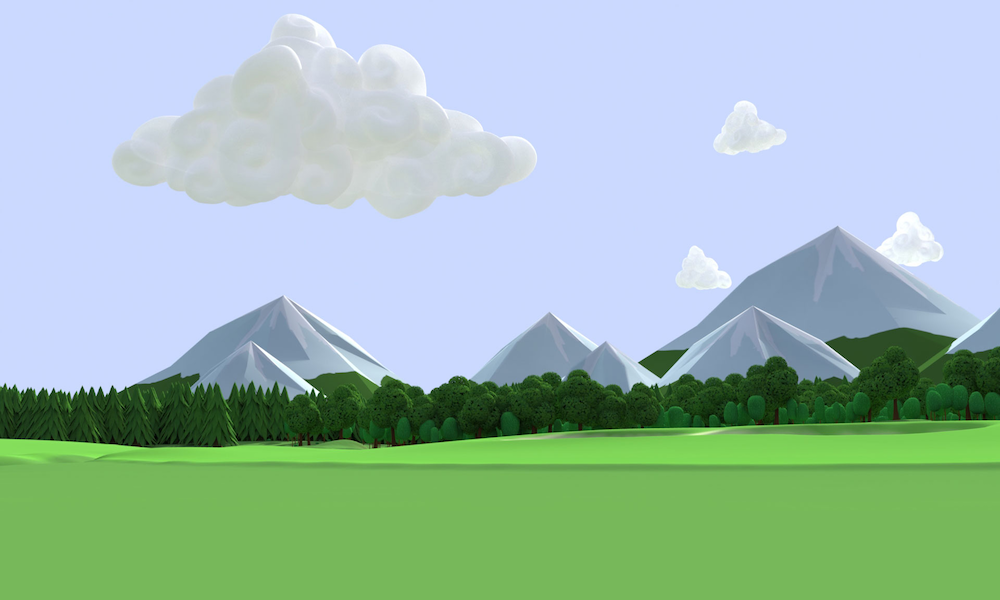
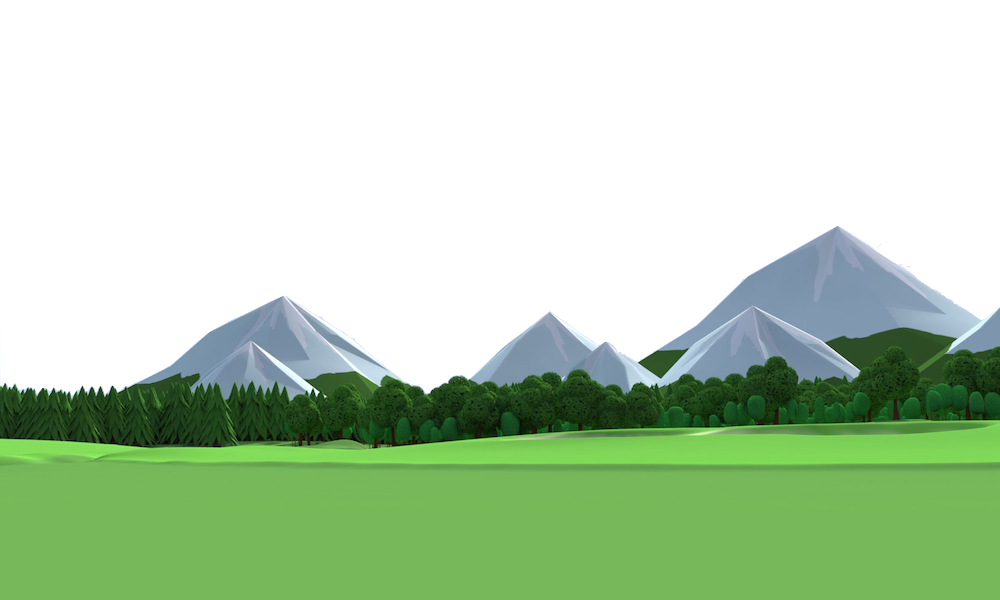
settings

diff --git a/tank_war.py b/tank_war.py
@@ -32,14 +32,14 @@ gameDisplay = pygame.display.set_mode((display_width, display_height))
 pygame.display.set_caption('TANK WAR')
 tankicon = pygame.image.load("tank_img.png")
 terrianimg = pygame.image.load("tankwar_terrian.png")
+cloud_1 = pygame.image.load("cloud_1.png")
+cloud_2 = pygame.image.load("cloud_2.png")
 pygame.display.set_icon(tankicon)
 clock = pygame.time.Clock()
 
 class Buttons:
 
-    font = pygame.font.SysFont(None, 30)
-
-    def __init__(self, x, y, w, h, ac_color, ic_color, text):
+    def __init__(self, x, y, w, h, ac_color, ic_color, text, size):
         self.x = x
         self.y = y
         self.w = w
@@ -48,10 +48,11 @@ class Buttons:
         self.ic_color = ic_color
         self.text = text
         self.rect = pygame.Rect(self.x, self.y, self.w, self.h)
+        self.font = pygame.font.SysFont(None, size)
 
     @property
     def text_objects(self):
-        bit_map = Buttons.font.render(self.text, True, BLACK)
+        bit_map = self.font.render(self.text, True, BLACK)
         return bit_map, bit_map.get_rect()
 
     def show_ac(self):
@@ -389,6 +390,14 @@ def button(obj):
             return True
     obj.write()
 
+def setton(obj):
+    obj.show_ic()
+    obj.write()
+    if obj.collide:
+        obj.show_ac()
+        obj.write()
+        return True
+
 def game_renew():
     Bullet.family = []
     Obstacle.rects = []
@@ -396,8 +405,8 @@ def game_renew():
     Tank.family = []
 
 def paused():
-    contin_b = Buttons(750, 450, 140, 70, BRIGHT_GREEN, GREEN, "CONTINUE")
-    restart_b = Buttons(150, 450, 140, 70, BRIGHT_GREEN, GREEN, "RESTART")
+    contin_b = Buttons(750, 450, 140, 70, BRIGHT_GREEN, GREEN, "CONTINUE", 30)
+    restart_b = Buttons(150, 450, 140, 70, BRIGHT_GREEN, GREEN, "RESTART", 30)
     title = Msg(display_width / 2, display_height / 3, "PAUSED", 80)
     title.show()
     while True:
@@ -415,12 +424,36 @@ def paused():
         pygame.display.update()
         clock.tick(30)
 
-def game_intro():
-    quit_b = Buttons(750, 450, 140, 70, LIGHT_ORANGE, DARK_ORANGE, "QUIT")
-    play_b = Buttons(150, 450, 140, 70, LIGHT_ORANGE, DARK_ORANGE, "PLAY")
-    title = Msg(display_width / 2, display_height / 3, "TANK WAR", 80)
-    gameDisplay.blit(terrianimg, (0, 0))
+def settings():
+    back_b = Buttons(750, 500, 140, 70, BRIGHT_GREEN, GREEN, "BACK", 30)
+    play_b = Buttons(150, 500, 140, 70, BRIGHT_GREEN, GREEN, "PLAY", 30)
+    title = Msg(display_width / 2, display_height / 6, "SETTINGS", 80)
+    gameDisplay.fill(LIGHT_BLUE)
     title.show()
+
+    set_family = []
+    texts = ("BARREL LEFT", "BARREL RIGHT", "TANK LEFT",
+             "TANK RIGHT", "POWER UP", "POWER DOWN", "FIRE")
+
+    with open("l_key.txt", "r") as file:
+        l_keys = file.read().split(",")
+    for each in l_keys:
+        ind = l_keys.index(each)
+        k_name = pygame.key.name(int(l_keys[ind]))
+        pos = ind + 1
+        if ind == 6:
+            button_x = 150
+        if (ind + 1) % 2 == 0:
+            pos = ind
+        if (ind + 1) % 2 == 0:
+            button_x = 300
+        else:
+            button_x = 100
+        set_family.append(Buttons(button_x,
+                          int(display_height / 14) * pos + 110, 150, 60,
+                          BRIGHT_GREEN, GREEN,
+                          texts[int(ind)] + ": " + k_name, 23))
+
     while True:
         for event in pygame.event.get():
             if event.type == pygame.QUIT:
@@ -428,6 +461,56 @@ def game_intro():
             if event.type == pygame.KEYDOWN:
                 if event.key == K_ESCAPE:
                     quitgame()
+        if button(back_b):
+            return None
+        if button(play_b):
+            return game_loop()
+
+        for each in set_family:
+            if setton(each):
+                for event in pygame.event.get():
+                    if event.type == pygame.KEYDOWN:
+                        if event.key == K_ESCAPE:
+                            quitgame()
+                        num = set_family.index(each)
+                        l_keys[num] = event.key
+                        each.text = texts[num] + ": " + pygame.key.name(int(l_keys[num]))
+        with open("l_key.txt", "w") as file:
+            file.write(','.join(map(str, l_keys)))
+        # print(str(clock.get_fps()))
+        pygame.display.update()
+        clock.tick(30)
+
+def game_intro():
+    quit_b = Buttons(750, 450, 140, 70, LIGHT_ORANGE, DARK_ORANGE, "QUIT", 30)
+    play_b = Buttons(150, 450, 140, 70, LIGHT_ORANGE, DARK_ORANGE, "PLAY", 30)
+    title = Msg(display_width / 2, display_height / 3, "TANK WAR", 80)
+    bigcloud_x = random.randint(0, display_width - 500)
+    bigcloud_y = random.randint(0, int(display_height / 4))
+    tinycloud_x = random.randint(500, display_width)
+    tinycloud_y = random.randint(0, int(display_height / 4))
+    while True:
+        for event in pygame.event.get():
+            if event.type == pygame.QUIT:
+                quitgame()
+            if event.type == pygame.KEYDOWN:
+                if event.key == K_ESCAPE:
+                    quitgame()
+                if event.key == K_s:
+                    settings()
+        gameDisplay.fill(LIGHT_BLUE)
+        gameDisplay.blit(terrianimg, (0, 0))
+        gameDisplay.blit(cloud_1, (bigcloud_x, bigcloud_y))
+        gameDisplay.blit(cloud_2, (tinycloud_x, tinycloud_y))
+        title.show()
+        if bigcloud_x < -380:
+            bigcloud_x = random.randint(0, 500) + display_width
+        else:
+            bigcloud_x -= 2
+        if tinycloud_x < -113:
+            tinycloud_x = random.randint(0, 500) + display_width
+        else:
+            tinycloud_x -= 4
         if button(quit_b):
             return quitgame()
         if button(play_b):
@@ -436,11 +519,13 @@ def game_intro():
         clock.tick(30)
 
 def end():
-    quit_b = Buttons(750, 380, 140, 60, LIGHT_YELLOW, YELLOW, "QUIT")
-    replay_b = Buttons(150, 380, 140, 60, LIGHT_YELLOW, YELLOW, "START AGAIN")
+    quit_b = Buttons(750, 380, 140, 60, LIGHT_YELLOW, YELLOW, "QUIT", 30)
+    replay_b = Buttons(150, 380, 140, 60, LIGHT_YELLOW, YELLOW, "START AGAIN", 30)
     title = Msg(display_width / 2, display_height / 3, "GAME OVER", 80)
-    gameDisplay.blit(terrianimg, (0, 0))
-    title.show()
+    bigcloud_x = random.randint(0, display_width - 500)
+    bigcloud_y = random.randint(0, int(display_height / 3))
+    tinycloud_x = random.randint(500, display_width)
+    tinycloud_y = random.randint(0, int(display_height / 3))
     while True:
         for event in pygame.event.get():
             if event.type == pygame.QUIT:
@@ -448,6 +533,19 @@ def end():
             if event.type == pygame.KEYDOWN:
                 if event.key == K_ESCAPE:
                     quitgame()
+        gameDisplay.fill(LIGHT_BLUE)
+        gameDisplay.blit(terrianimg, (0, 0))
+        gameDisplay.blit(cloud_1, (bigcloud_x, bigcloud_y))
+        gameDisplay.blit(cloud_2, (tinycloud_x, tinycloud_y))
+        title.show()
+        if bigcloud_x < -380:
+            bigcloud_x = random.randint(0, 500) + display_width
+        else:
+            bigcloud_x -= 2
+        if tinycloud_x < -113:
+            tinycloud_x = random.randint(0, 500) + display_width
+        else:
+            tinycloud_x -= 4
         if button(quit_b):
             return quitgame()
         if button(replay_b):
@@ -474,29 +572,35 @@ def game_loop():
     #create objects
     player_tank = Tank(tank_x, horizon, BLACK, BROWN)
     enemy_tank = Tank(enemy_x, horizon, BLACK, BROWN)
-    # print(player_tank.health)
+    #create bars
     left_bar = Bar(10, 30, YELLOW, 12, 12, "Power: ")
     right_bar = Bar(850, 30, YELLOW, 12, 12, "Power: ")
-
     l_healbar = Bar(10, 80, RED, 5, 5, "Health: ")
     r_healbar = Bar(850, 80, RED, 5, 5, "Health: ")
+    l_energy = Bar(10, 130, LIGHT_ORANGE, int(Tank.energy / 10),
+                   int(Tank.energy / 10), "Energy: ")
+    r_energy = Bar(850, 130, LIGHT_ORANGE, int(Tank.energy / 10),
+                   int(Tank.energy / 10), "Energy: ")
 
-    l_energy = Bar(10, 130, LIGHT_YELLOW, int(Tank.energy / 10),
-                   int(Tank.energy / 10), "Energy: ")
-    r_energy = Bar(850, 130, LIGHT_YELLOW, int(Tank.energy / 10),
-                   int(Tank.energy / 10), "Energy: ")
+    #read keys from l_key.txt
+    with open("l_key.txt", "r") as file:
+        keys = file.read().split(",")
+    keys = map(int, keys)
+    bl, br, tl, tr, pu, pd, f = keys
+
     #set obstacle
     Obstacle.set()
 
     while True:
+
         key_press = pygame.key.get_pressed()
 
         gameDisplay.fill(LIGHT_BLUE)
 
         #tank movement
-        if key_press[K_a]:
+        if key_press[tl]:
             player_tank.x -= 5
-        if key_press[K_d]:
+        if key_press[tr]:
             player_tank.x += 5
         if key_press[K_l]:
             enemy_tank.x -= 5
@@ -504,9 +608,9 @@ def game_loop():
             enemy_tank.x += 5
 
         #barrel movement
-        if key_press[K_e]:
+        if key_press[br]:
             player_tank.angle += 2
-        if key_press[K_q]:
+        if key_press[bl]:
             player_tank.angle -= 2
         if key_press[K_LEFTBRACKET]:
             enemy_tank.angle += 2
@@ -514,10 +618,10 @@ def game_loop():
             enemy_tank.angle -= 2
 
         #power change
-        if key_press[K_w]:
+        if key_press[pu]:
             if player_power < 12:
                 player_power += 1
-        if key_press[K_s]:
+        if key_press[pd]:
             if player_power > 1:
                 player_power -= 1
         if key_press[K_p]:
@@ -533,14 +637,14 @@ def game_loop():
             if event.type == pygame.KEYDOWN:
                 if event.key == K_ESCAPE:
                     quitgame()
-                if event.key == K_f:
+                if event.key == f:
                     if player_tank.energy > 0:
                         Bullet(player_tank, player_power + 10)
                         Spark(player_tank, YELLOW)
                         player_tank.energy -= 25
                 if event.key == K_k:
                     if enemy_tank.energy > 0:
-                        Bullet(enemy_tank, enemy_power)
+                        Bullet(enemy_tank, enemy_power + 10)
                         Spark(enemy_tank, YELLOW)
                         enemy_tank.energy -= 25
                 if event.key == K_SPACE:
@@ -612,13 +716,9 @@ def game_loop():
         r_energy.show()
         pygame.display.update()
         clock.tick(30)
-        # print(len(Bullet.family))
-        # print(player_tank.health)
-        # print(Tank.family)
-        # print(enemy_tank.health)
 
 try:
     game_intro()
-
+    # settings()
 except KeyboardInterrupt:
     quitgame()
